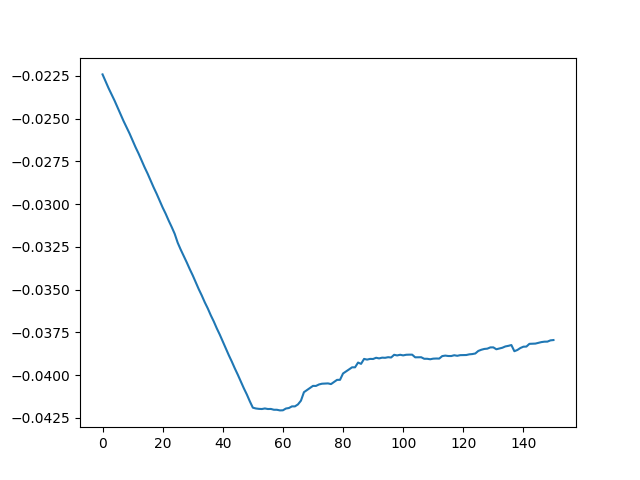
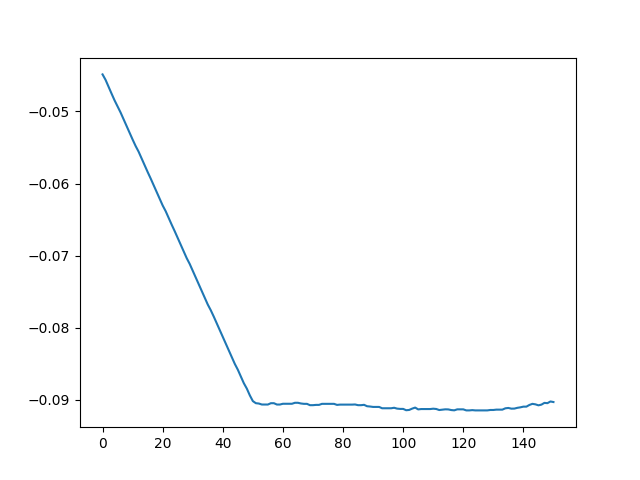
fix tennis

diff --git a/env_utils.py b/env_utils.py
@@ -670,7 +670,7 @@ class Tennis(EnvUtil):
                 else:
                     observation = np.concatenate([observation[len(observation) // 4:], observation_])
                     trajectory['rew'][batch_index, frame_count] +=\
-                        self.aim_quality(observation) * np.foat32(self.is_returning(observation)) * player.reward_weight[1] \
+                        self.aim_quality(observation) * np.float32(self.is_returning(observation)) * player.reward_weight[1] \
                         + (1 + back) * self.self_dy(observation) * player.reward_weight[2]
 
         return observation

diff --git a/rl_test.py b/rl_test.py
@@ -90,7 +90,7 @@ class RLtest:
 
         print('done')
 
-def TEST(alpha=0.0005, gamma=0.99, traj=80, batch=8):
+def TEST(alpha=0.0005, gamma=0.99, traj=80, batch=1):
     tester = RLtest(alpha, gamma, traj, batch)
     tester.train_loop()
 
